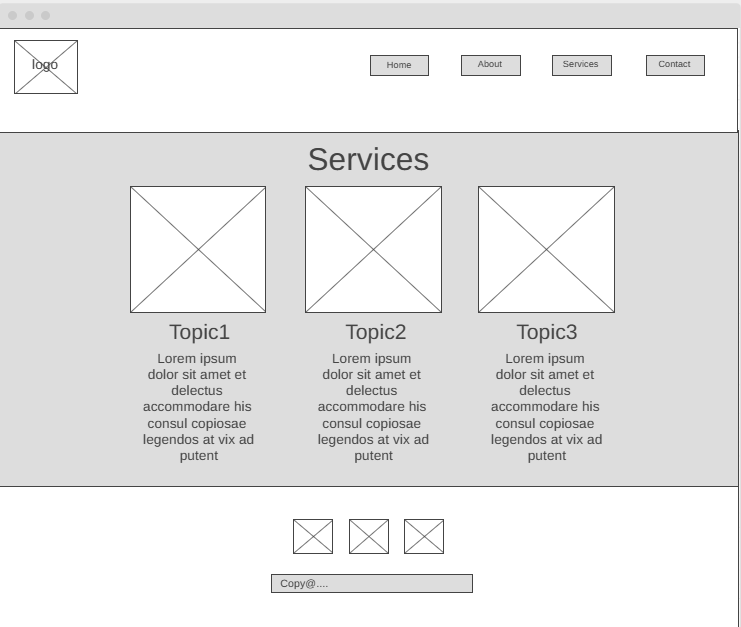
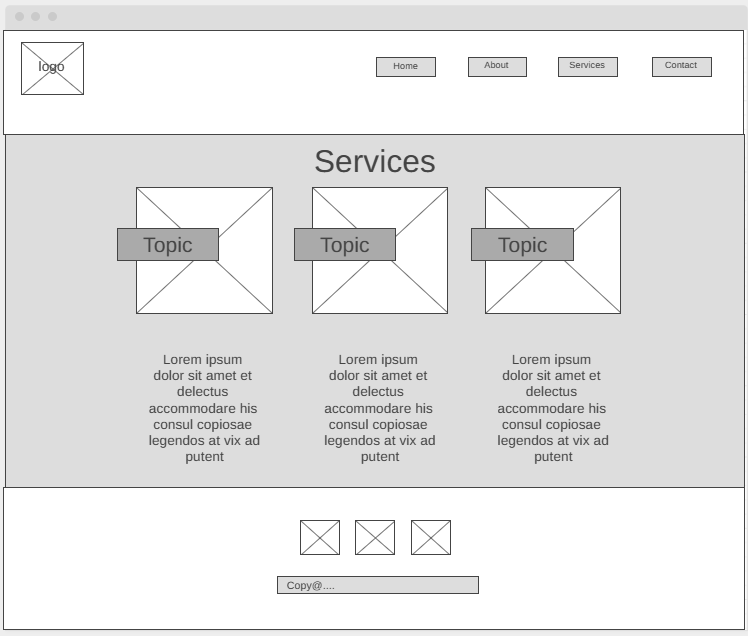
child page 2 - services changes

Changed region(s): [[0.0, 0.0303, 1.0, 1.0], [0.5277, 0.4242, 0.5587, 0.4545]]

diff --git a/atrebrabding/styles/servicestyles.css b/atrebrabding/styles/servicestyles.css
@@ -82,50 +82,43 @@ nav a:hover {
 
 }
 
-nav a {
-  display: inline-block;
-  padding: 10px 20px;
-  border-radius: 5px;
-  background-color: #808080;
-  color: #f0ebe1;
-  text-decoration: none;
-  margin-left: 10px;
-  margin-right: 60px;
-  padding-bottom: 5px;
-  border-bottom: none;
-  font-size: 18px;
-  font-family: 'Tenor Sans', Quicksand;
-
-}
 
 .top-header {
   text-align: center;
   margin-top: 80px;
-  font-size: 80px;
+  font-size: 36px;
   grid-column: 1/11;
-  font-size: 50px;
   font-family: 'Stint Ultra Expanded', 'Tenor Sans';
+  color:#000000;
   
 }
 
 h2 {
   margin: 0;
-  color: #f0ebe1;
   
 }
 
 main section img {
   box-sizing: border-box;
   filter: grayscale(100%);
+  box-shadow: 5px 5px 10px rgb(30, 30, 31);
+  border-radius: 5px;
+
 }
 
 main section p {
   text-align:center;
   margin: 0 auto;
   max-width: 800px;
-  margin-top: 15px;
-  font-size: 14px;
+  margin-top: 35px;
+  font-size: 15px;
+  padding: 30px 20px;
   font-family: 'Tenor Sans', Quicksand;
+  color: #f0ebe1;
+  background: rgb(30, 30, 31);
+  border-radius: 5px;
+  box-shadow: 5px 5px 10px rgb(94, 94, 95);
+  line-height: 23px;
 }
 
 .main {
@@ -152,22 +145,28 @@ main section p {
   height: auto;
   transition: .5s ease;
   backface-visibility: hidden;
+  
 }
 
 .middle {
   transition: .5s ease;
   opacity: 0;
   position: absolute;
-  top: 30%;
+  top: 20%;
   left: 33%;
   transform: translate(-50%, -50%);
   -ms-transform: translate(-50%, -50%);
   text-align: center;
+  border-radius: 5px;
+  
+  
 }
+
 
 .card-img:hover {
   opacity: 0.6;
   transform: scale(1.1);
+  
 }
 
 .branding-card {
@@ -182,15 +181,19 @@ main section p {
 
 .branding-card:hover .middle {
   opacity: 1;
+  
 
 }
 
 .text {
   background-color: rgb(30, 30, 31);
-  color: white;
-  font-size: 15px;
-  padding: 10px 100px;
-  font-family: 'Tenor Sans', Quicksand;
+  color:white;
+  font-size: 18px;
+  padding: 15px 80px;
+  font-family: 'Stint Ultra Expanded', 'Tenor Sans';
+  border-radius: 5px;
+  box-shadow: 5px 5px 10px rgb(94, 94, 95);
+
 }
 
 .growth-card {
@@ -241,23 +244,29 @@ section {
 }
 
 .button {
-  margin: auto;
+  display: inline-block;
+  text-decoration: none;
+  padding: 10px 10px;
+  font-family: 'Tenor Sans', Quicksand;
+  margin-top: 40px;
+  
 }
 
 .button a {
-  display: inline-block;
-  color: #f0ebe1;
-  background-color: rgba(0, 0, 0, 0.7);
   padding: 8px 20px;
   border-radius: 10px;
   text-decoration: none;
+  border-radius: 5px;
+  background-color: rgb(30, 30, 31);
+  color: #f0ebe1;
+  font-size: 18px;
+
 }
 
 .button a:hover {
-  color: var(--button-hover-link-color);
-  background-color: rgb(61, 59, 59);
-  background-size: 0%;
-  transform: scale(1.1);
+  color: #f0ebe1;
+  background-color: rgba(49, 48, 48, 0.5);
+  box-shadow: 5px 20px 10px rgb(100, 98, 98);
 }
 
 .footer-bottom {
@@ -276,10 +285,17 @@ section {
 
 .social img {
   width: 35px;
+  border-radius: 5px;
+  box-shadow: 5px 20px 10px rgb(30, 30, 31);
+  
+}
+
+.social img:hover {
+  box-shadow: 5px 10px 10px var(--paragraph-color-on-white);
+
 }
 
 .col-six {
-  
   bottom: 30px;
   left: 10px;
 }
@@ -290,7 +306,7 @@ section {
 }
 
 footer {
-  background-color: rgba(0, 0, 0, 0.7);
+  background-color: rgba(0, 0, 0, 0.75);
   padding: 0%;
   color: #f0ebe1;
   text-align: center;
@@ -299,7 +315,7 @@ footer {
   left: 0;
   width: 100%;
   z-index: 2;
-  height: 120px;
+  height: 115px;
 }
 
 footer .row {
@@ -318,7 +334,10 @@ footer .row {
 }
 
 .footer-bottom {
-  margin-top: 20px;
+  margin-top: 16px;
+  font-family: Quicksand;
+  font-size: 12px;
+  color: #f0ebe1;
 }
 
 .site-plan-link {

diff --git a/atrebrabding/services.html b/atrebrabding/services.html
@@ -48,7 +48,7 @@
             <section class="branding-card">
                 <img class="card-img" src="images/branding.jpg" alt="Rebranding">
                 <div class="middle">
-                    <div class="text">Branding Rebranding</div>
+                    <h3 class="text">Branding Rebranding</h3>
                 </div>
                 <p>We are specialized in crafting and revitalizing brands. Whether you're starting from scratch or looking to refresh your brand, our team provides comprehensive branding and rebranding solutions that capture your unique identity and resonate with your target audience.</p>
 
@@ -64,7 +64,7 @@
             <section class="growth-card">
                 <img class="card-img" src="images/growth.jpg" alt="Growth">
                 <div class="middle">
-                    <div class="text">Market Research</div>
+                    <h3 class="text">Market Research</h3>
                 </div>
                 <p>Gain valuable insights into your industry and target market with our market research and analysis services. We employ advanced research methodologies and data-driven approaches to help you make informed business decisions, identify market trends, understand consumer behavior, and uncover growth opportunities.</p>
                 
@@ -80,7 +80,7 @@
             <section class="socials-card">
                 <img class="card-img" src="images/socials.jpg" alt="Social">
                 <div class="middle">
-                    <div class="text">Social Media</div>
+                    <h3 class="text">Social Media</h3>
                 </div>
                 <p>Maximize your online presence and engage with your audience through our social media and content marketing services. From creating compelling content to managing social media platforms, we develop effective strategies to increase brand visibility, drive website traffic, and foster meaningful connections with your customers.
                 </p>
